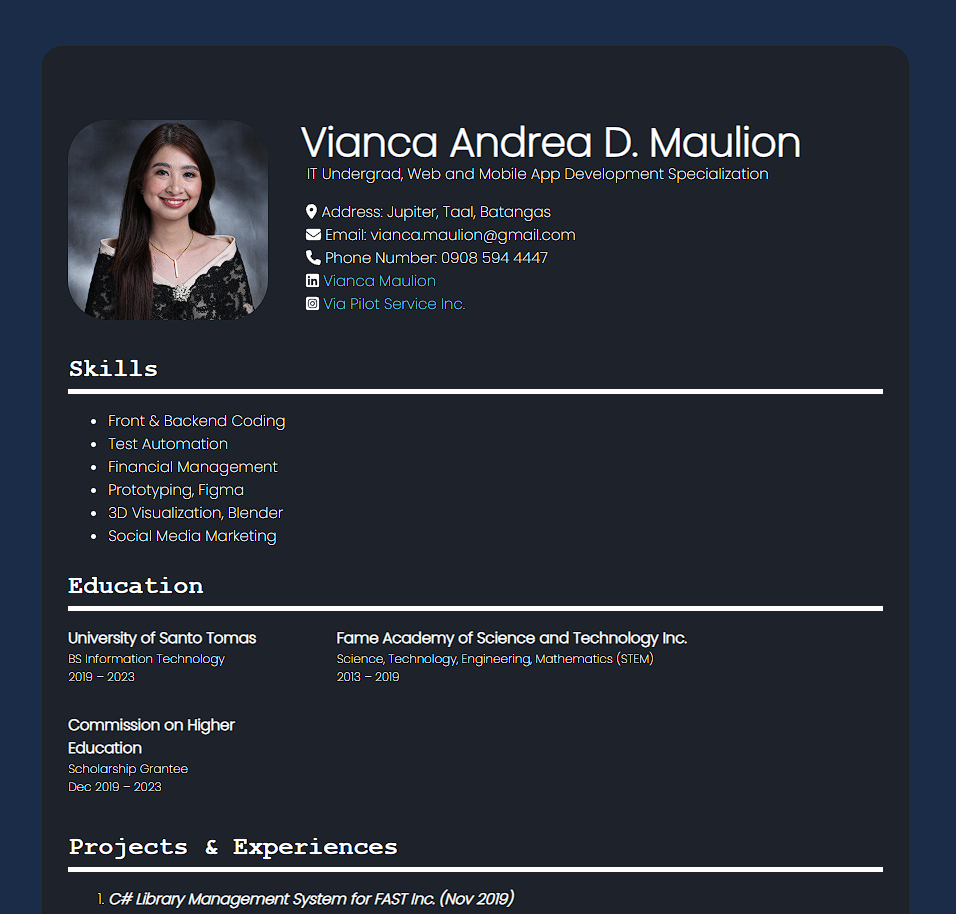
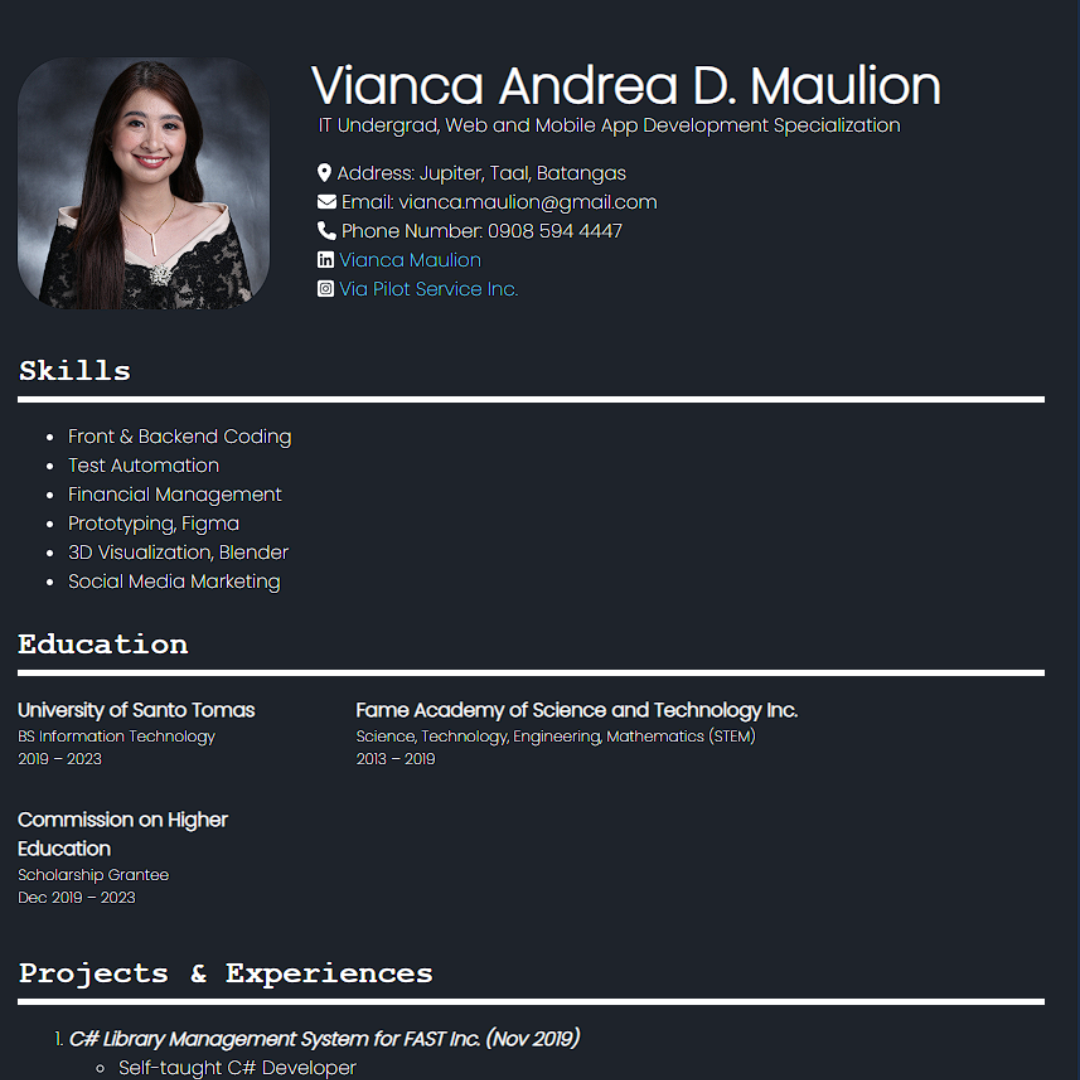
Edited work-4.png size and remored Learn More btn

diff --git a/index.html b/index.html
@@ -95,19 +95,16 @@
                 <i class="fa-solid fa-pen-nib"></i>
                 <h2>UI/UX Design</h2>
                 <p>Create a prototype for your website.</p>
-                <a href="#">Learn more</a>
             </div>
             <div>
                 <i class="fa-solid fa-code"></i>
                 <h2>Website Development</h2>
                 <p>Create a responsive website.</p>
-                <a href="#">Learn more</a>
             </div>
             <div>
                 <i class="fa-brands fa-android"></i>
                 <h2>Mobile App Development</h2>
                 <p>Create a responsive mobile application.</p>
-                <a href="#">Learn more</a>
             </div>
         </div>
     </div>
@@ -136,7 +133,7 @@
             <div class="work">
                 <img src="images/work-3.png" alt="Fast LMS">
                 <div class="layer">
-                    <h3>C# FAST Inc Library Management System</h3>
+                    <h3>C# FAST Library System</h3>
                     <p>A capstone project in FAST Inc. <br><br>An administrative software that handles inventory and borrower logs.</p>
                     <a href="https://www.facebook.com/maulionvianca/posts/pfbid0WkNxrpxHZ4i7oKaMAPPxfbgFWvLG1Xwb2xkpSfN7XDTUZr5Yh5iAzhCb1BFExj9Al" target="_blank"><i class="fa-solid fa-arrow-up-right-from-square"></i></i></a>
                 </div>
